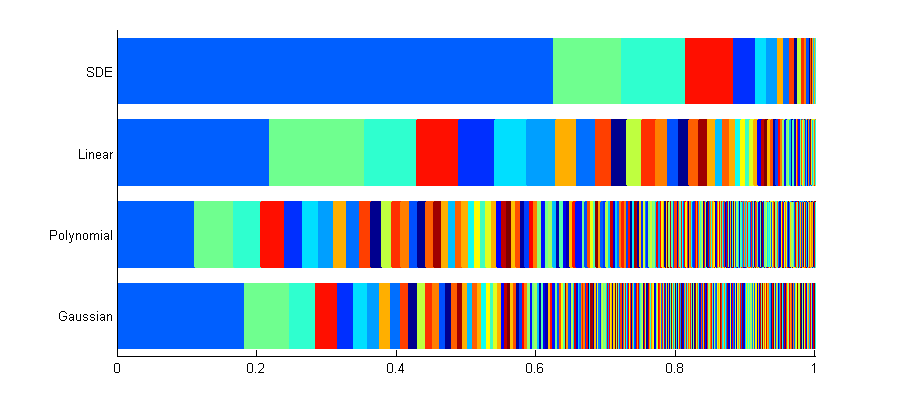
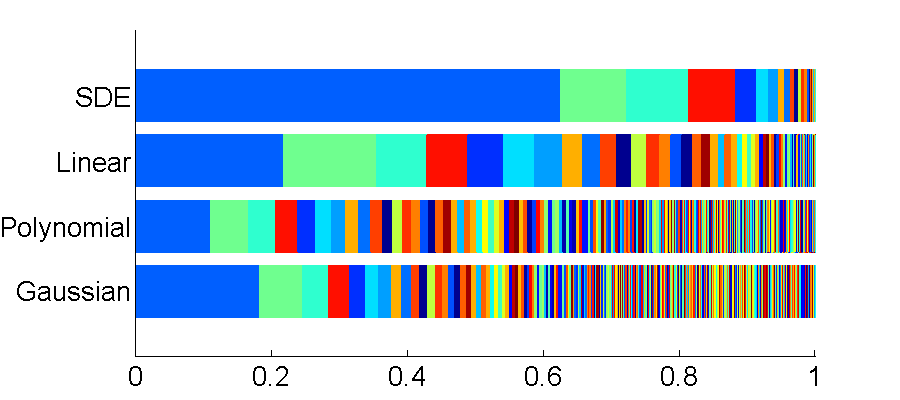
Figures

diff --git a/GenrateFigures.m b/GenrateFigures.m
@@ -24,15 +24,15 @@ ker = Kf(da,da);
 eigenMatrix(3,:) = sort(eig(ker), 'descend');
 
 p=4;
-p = 2; % For large margin
+%p = 2; % For large margin
 Kf = @(x,y)PolyKer( x,y,p);
 da = data;
 ker = Kf(da,da);
 eigenMatrix(2,:) = sort(eig(ker), 'descend');
 
 %sigma = 1.45;
-%sigma = 1541; % For Teapot
-[~, sigma]= calc_eta_and_sigma(data,4)
+sigma = 1541; % For Teapot
+%[~, sigma]= calc_eta_and_sigma(data,4)
 %sigma = 5.5; % For large margin
 gamma = 1/(2*sigma^2);
 Kf = @(x,y)(exp(-(squareform(pdist(x,'euclidean').^2))*gamma));

diff --git a/Table1/calc_eta_and_sigma.m b/Table1/calc_eta_and_sigma.m
@@ -1,0 +1,12 @@
+function [eta sigma]= calc_eta(A,k)
+    N = size(A,1);
+    assert(N>k,'Cannot find %d neighbours in a set of only %d datapoints',k,N);
+    distmatrix = squareform(pdist(A));
+    eta = spalloc(N,N,k*N); %Preallocate a sparse matrix with k*N non-zero elements
+    for i=1:N
+        [~, sortIndex] = sort(distmatrix(i,:));
+        eta(i,sortIndex(2:k+1)) = ones(1,k);
+    end
+    
+    sigma = mean(mean( reshape(distmatrix(eta==1),4,N),1));
+end

diff --git a/Table1/Table1.m b/Table1/Table1.m
@@ -10,7 +10,7 @@ Polyerrorrate = 0;
 Gaussianerrorrate = 0;
 sigmaList = zeros(1,10);
 for ii = 1:10
-    Numbers ='89';
+    Numbers ='13';
     filename = strcat('Large_Margin_',Numbers,'_',num2str(ii));
     load(filename)
 
@@ -33,7 +33,7 @@ for ii = 1:10
     groupPoly = svmclassify(SVMStruct,TestPoints);
     
     
-    [~, sigma]= calc_eta(data,4);
+    [~, sigma]= calc_eta_and_sigma(data,4);
      
     sigmaList(ii) = sigma;
     gamma = 1/(2*sigma^2);

diff --git a/StackedBarPlot.m b/StackedBarPlot.m
@@ -33,7 +33,7 @@ set(fig, 'Position', [300 300 900 400])
 
 set(gca,'XTick',[0,0.2, 0.4, 0.6, 0.8, 1])
 set(gca,'YTick',[1,2, 3, 4])
-
+set(gca,'fontsize',20);
 set(gca,'YTickLabel',{'Gaussian','Polynomial', 'Linear', 'SDE'})
 xlim([0,1]);
 end
